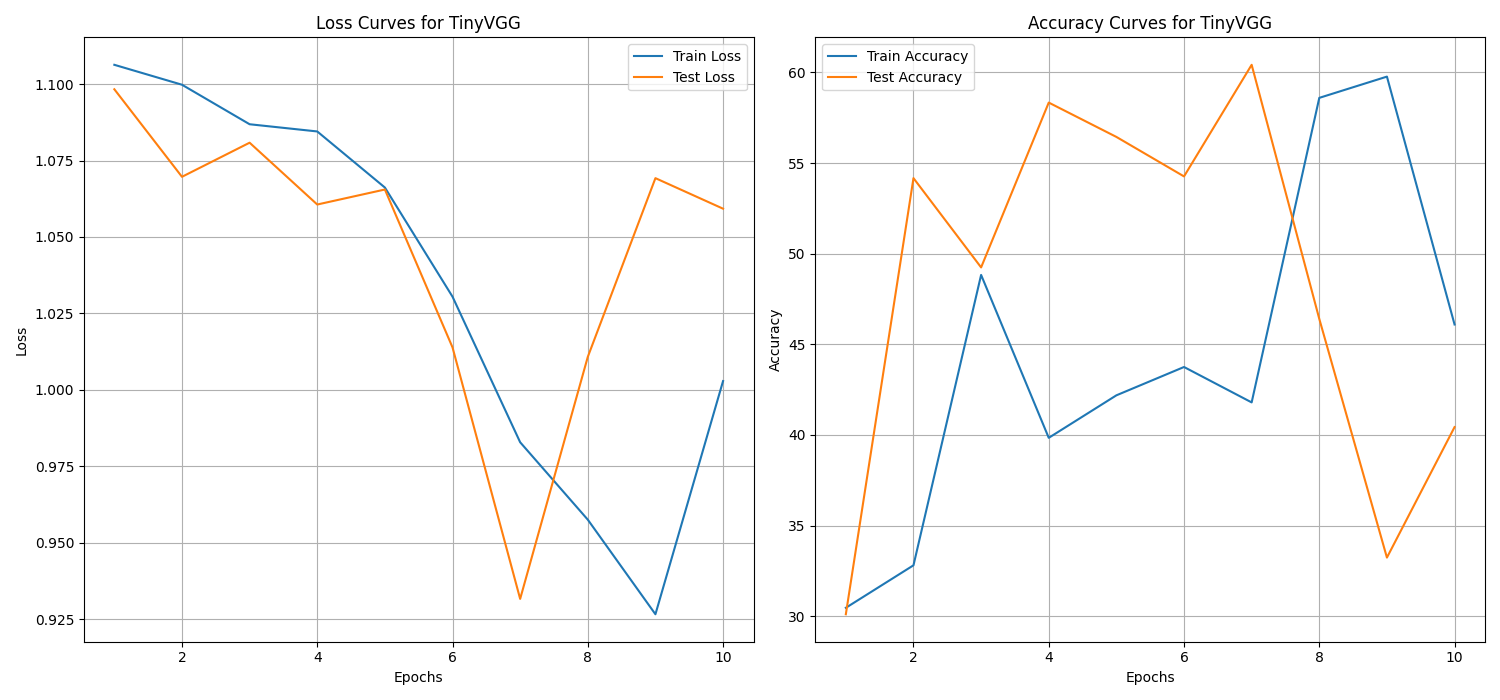
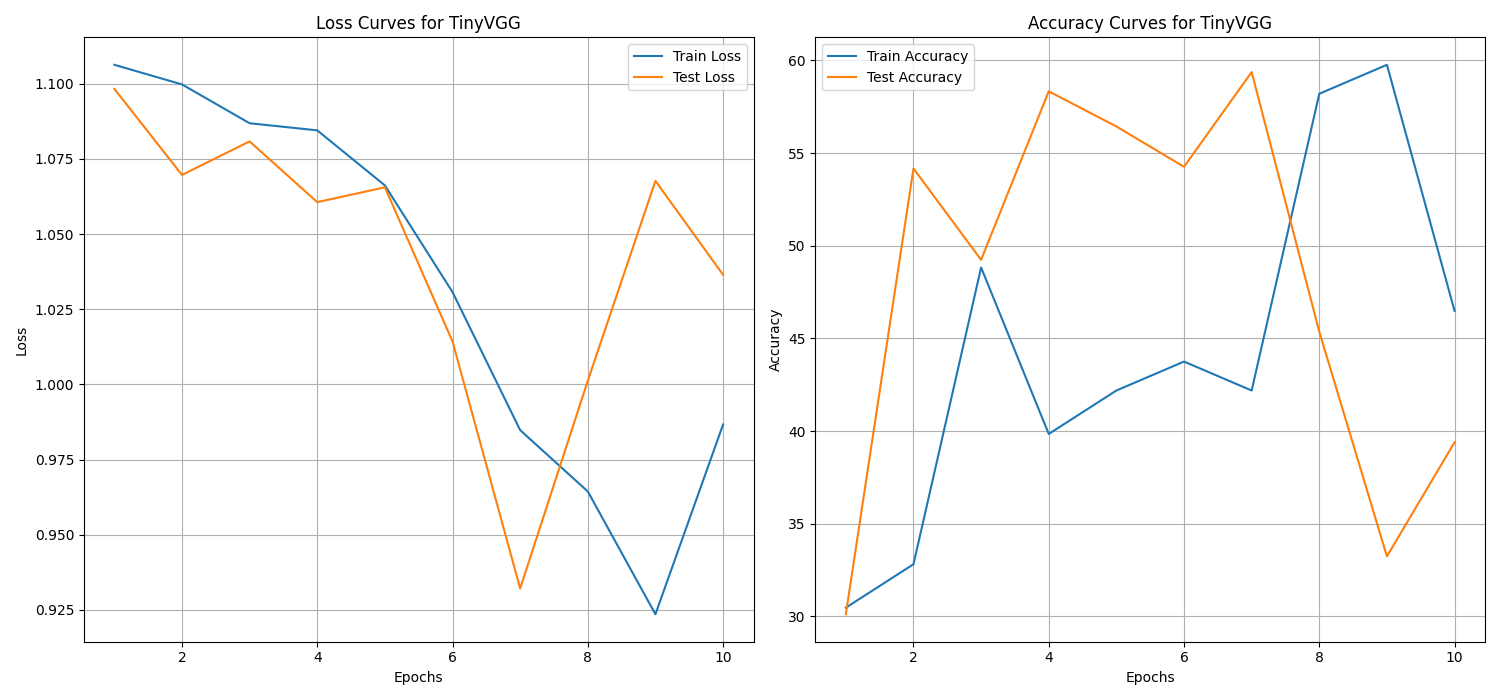
plot compare loss curve, start using downloaded image for prediction

diff --git a/lessons/section6_pytorch_custom_datasets/src/d_161_pytorch_custom_dataset_model_with_augment.py b/lessons/section6_pytorch_custom_datasets/src/d_161_pytorch_custom_dataset_model_with_augment.py
@@ -1,3 +1,4 @@
+import json
 import torch
 from torch import nn
 from torch.utils.data import DataLoader, Dataset
@@ -102,7 +103,7 @@ optimizer = torch.optim.Adam(model_1.parameters(), lr=0.001)
 """
 torch.manual_seed(42)
 torch.cuda.manual_seed(42)
-NUM_EPOCHS = 20
+NUM_EPOCHS = 10
 start_time = default_timer()
 model_1_results = train(
     model=model_1,
@@ -128,3 +129,83 @@ plt.savefig(
 Sample output:
 {'model_name': 'TinyVGG', 'train_loss': [1.1037115156650543, 1.0763073936104774, 1.0745355859398842, 1.117841899394989, 1.081290602684021, 1.0965303480625153, 1.0544301122426987, 1.0637394040822983, 1.0622591599822044, 1.0040317848324776, 0.9607392475008965, 0.9803609922528267, 0.9505485594272614, 0.9474351331591606, 0.9690867587924004, 0.8865455463528633, 0.9473721086978912, 0.9878225922584534, 0.9086165204644203, 0.922882191836834], 'train_accuracy': [25.0, 42.578125, 42.578125, 30.46875, 47.265625, 38.671875, 52.34375, 51.5625, 44.140625, 43.75, 52.34375, 54.296875, 56.640625, 55.078125, 57.421875, 61.328125, 57.03125, 46.484375, 58.984375, 59.765625], 'test_loss': [1.1013043721516926, 1.1317500869433086, 1.1680513223012288, 1.1571898857752483, 1.1535391012827556, 1.1407412091890972, 1.1264049609502156, 1.122567613919576, 1.0951989491780598, 0.9865210254987081, 1.0291932026545207, 1.0558059215545654, 1.0353090365727742, 1.0455910762151082, 1.021833101908366, 1.0866369406382244, 1.0543920199076335, 1.0294636487960815, 1.088698108990987, 1.0232189893722534], 'test_accuracy': [26.041666666666668, 26.041666666666668, 26.041666666666668, 26.041666666666668, 26.041666666666668, 29.166666666666668, 32.291666666666664, 31.25, 34.375, 44.31818181818181, 41.47727272727273, 32.10227272727273, 42.42424242424242, 39.3939393939394, 35.13257575757576, 39.3939393939394, 35.22727272727273, 39.29924242424242, 34.18560606060606, 44.41287878787879]}
 """
+
+"""
+10. Compare model results with and without augmentation
+
+Some approaches:
+1. Hard code
+2. Pytorch + TensorBoard
+3. Weights + Biases (wandb)
+4. MLflow
+"""
+
+"""
+10.1 Load model_0 results (no augmentation) saved by c_152_*.py
+"""
+_results_path = Path(
+    "lessons/section6_pytorch_custom_datasets/src/c_model_0_results.json"
+)
+with open(_results_path) as f:
+    model_0_results = json.load(f)
+
+print("model_0 results loaded:", model_0_results)
+
+"""
+10.2 Plot model_0 vs model_1 loss and accuracy curves side by side for comparison
+    model_0 = TinyVGG without augmentation (c_152_*.py)
+    model_1 = TinyVGG with TrivialAugmentWide (this file)
+
+Note: the two models were trained for different numbers of epochs (10 vs 20),
+so we align by epoch index — the x-axis simply counts epochs from 1.
+"""
+fig, axes = plt.subplots(1, 2, figsize=(15, 7))
+
+# --- Loss ---
+ax = axes[0]
+for results, label in [
+    (model_0_results, "model_0 (no augment)"),
+    (model_1_results, "model_1 (augmented)"),
+]:
+    epochs_range = range(1, len(results["train_loss"]) + 1)
+    ax.plot(epochs_range, results["train_loss"], linestyle="--", label=f"{label} train")
+    ax.plot(epochs_range, results["test_loss"], linestyle="-", label=f"{label} test")
+ax.set_title("Loss Comparison: model_0 vs model_1")
+ax.set_xlabel("Epochs")
+ax.set_ylabel("Loss")
+ax.legend()
+ax.grid()
+
+# --- Accuracy ---
+ax = axes[1]
+for results, label in [
+    (model_0_results, "model_0 (no augment)"),
+    (model_1_results, "model_1 (augmented)"),
+]:
+    epochs_range = range(1, len(results["train_accuracy"]) + 1)
+    ax.plot(
+        epochs_range, results["train_accuracy"], linestyle="--", label=f"{label} train"
+    )
+    ax.plot(
+        epochs_range, results["test_accuracy"], linestyle="-", label=f"{label} test"
+    )
+ax.set_title("Accuracy Comparison: model_0 vs model_1")
+ax.set_xlabel("Epochs")
+ax.set_ylabel("Accuracy (%)")
+ax.legend()
+ax.grid()
+
+plt.tight_layout()
+plt.savefig(
+    "lessons/section6_pytorch_custom_datasets/src/d_line_199_comparison_model_0_vs_model_1.png"
+)
+
+"""
+11. Save model_1 weights for use in prediction / comparison in other files
+"""
+_SAVE_DIR = Path("lessons/section6_pytorch_custom_datasets/src")
+_SAVE_DIR.mkdir(parents=True, exist_ok=True)
+
+_MODEL_PATH = _SAVE_DIR / "d_model_1.pth"
+torch.save(model_1.state_dict(), _MODEL_PATH)
+print(f"model_1 saved to: {_MODEL_PATH}")

diff --git a/lessons/section6_pytorch_custom_datasets/src/f_165_using_downloaded_image_for_prediction.py b/lessons/section6_pytorch_custom_datasets/src/f_165_using_downloaded_image_for_prediction.py
@@ -1,0 +1,57 @@
+import torch
+from torch import nn
+from torch.utils.data import DataLoader, Dataset
+from torchvision import datasets
+from torchvision.transforms import v2
+import torchinfo
+
+from common.device import get_best_device, print_device_info
+from common.helper_fucntion import accuracy_fn, print_train_time
+from lessons.section6_pytorch_custom_datasets.common.common import (
+    train,
+    plot_loss_curves,
+    TinyVGG,
+)
+
+from typing import Tuple, Dict, List
+from pathlib import Path
+import pathlib
+import os
+import random
+from PIL import Image
+from timeit import default_timer
+import matplotlib.pyplot as plt
+import requests
+
+
+device = get_best_device()
+print_device_info(device)
+"""
+Load the model weights from d_161_pytorch_custom_dataset_model_with_augment.py 
+and use it to make a prediction on a single image downloaded from the internet.
+"""
+model_1 = TinyVGG(in_features=3, hidden_units=10, out_features=3).to(device)
+_MODEL_PATH = Path("lessons/section6_pytorch_custom_datasets/src/d_model_1.pth")
+model_1.load_state_dict(torch.load(_MODEL_PATH, map_location=device, weights_only=True))
+model_1.eval()
+
+"""
+11. Making a prediction on a custom image downloaded from the internet
+
+Image is not in either the train or test set, but we can still make a prediction on it using our trained model.
+"""
+
+# Download an image from the internet and save it to disk (done manually in this case)
+data_path = Path("lessons/section6_pytorch_custom_datasets/data")
+custom_image_path = data_path / "04-pizza-dad.jpg"
+
+if not custom_image_path.exists():
+    with open(custom_image_path, "wb") as f:
+        f.write(
+            requests.get(
+                "https://raw.githubusercontent.com/mrdbourke/pytorch-deep-learning/main/images/04-pizza-dad.jpeg"
+            ).content
+        )
+        print(f"Custom image downloaded and saved to: {custom_image_path}")
+else:
+    print(f"Custom image already exists at: {custom_image_path}")

diff --git a/lessons/section6_pytorch_custom_datasets/src/c_152_pytorch_custom_dataset_build_model.py b/lessons/section6_pytorch_custom_datasets/src/c_152_pytorch_custom_dataset_build_model.py
@@ -4,6 +4,7 @@ from torch.utils.data import DataLoader, Dataset
 from torchvision import datasets
 from torchvision.transforms import v2
 import torchinfo
+import json
 
 from common.device import get_best_device, print_device_info
 from common.helper_fucntion import accuracy_fn, print_train_time
@@ -283,6 +284,25 @@ plt.tight_layout()
 plt.savefig(
     "lessons/section6_pytorch_custom_datasets/src/c_line_297_model_0_loss_curves.png"
 )
+
+"""
+7.9 Save model_0 weights and training results for use in comparison files
+"""
+
+# Directory to persist artefacts
+_SAVE_DIR = Path("lessons/section6_pytorch_custom_datasets/src")
+_SAVE_DIR.mkdir(parents=True, exist_ok=True)
+
+# Save model state dict (weights only — portable across scripts)
+_MODEL_PATH = _SAVE_DIR / "c_model_0.pth"
+torch.save(model_0.state_dict(), _MODEL_PATH)
+print(f"Model saved to: {_MODEL_PATH}")
+
+# Save training results as JSON so any script can load and compare metrics
+_RESULTS_PATH = _SAVE_DIR / "c_model_0_results.json"
+with open(_RESULTS_PATH, "w") as f:
+    json.dump(model_0_result, f, indent=2)
+print(f"Results saved to: {_RESULTS_PATH}")
 
 """
 8. What should be ideal loss curve look like?

diff --git a/lessons/section6_pytorch_custom_datasets/src/e_162_transfer_learning_efficientnet.py b/lessons/section6_pytorch_custom_datasets/src/e_162_transfer_learning_efficientnet.py
@@ -65,8 +65,8 @@ test_dir = data_path / "pizza_steak_sushi" / "test"
 #    exactly the same preprocessing that was used during ImageNet training.
 #    For training we add a few augmentations on top.
 # ─────────────────────────────────────────────────────────────────────────────
-weights = EfficientNet_B0_Weights.DEFAULT          # best available pretrained weights
-auto_transforms = weights.transforms()             # Resize(256) → CenterCrop(224) + Normalize
+weights = EfficientNet_B0_Weights.DEFAULT  # best available pretrained weights
+auto_transforms = weights.transforms()  # Resize(256) → CenterCrop(224) + Normalize
 
 # Build train transform: auto_transforms already include Normalize,
 # so we add geometric augmentations *before* the auto pipeline.
@@ -152,7 +152,7 @@ NUM_EPOCHS = 10
 
 loss_fn = nn.CrossEntropyLoss()
 optimizer = torch.optim.Adam(
-    params=model.classifier.parameters(),   # only train the new head
+    params=model.classifier.parameters(),  # only train the new head
     lr=0.001,
 )
 scheduler = torch.optim.lr_scheduler.CosineAnnealingLR(